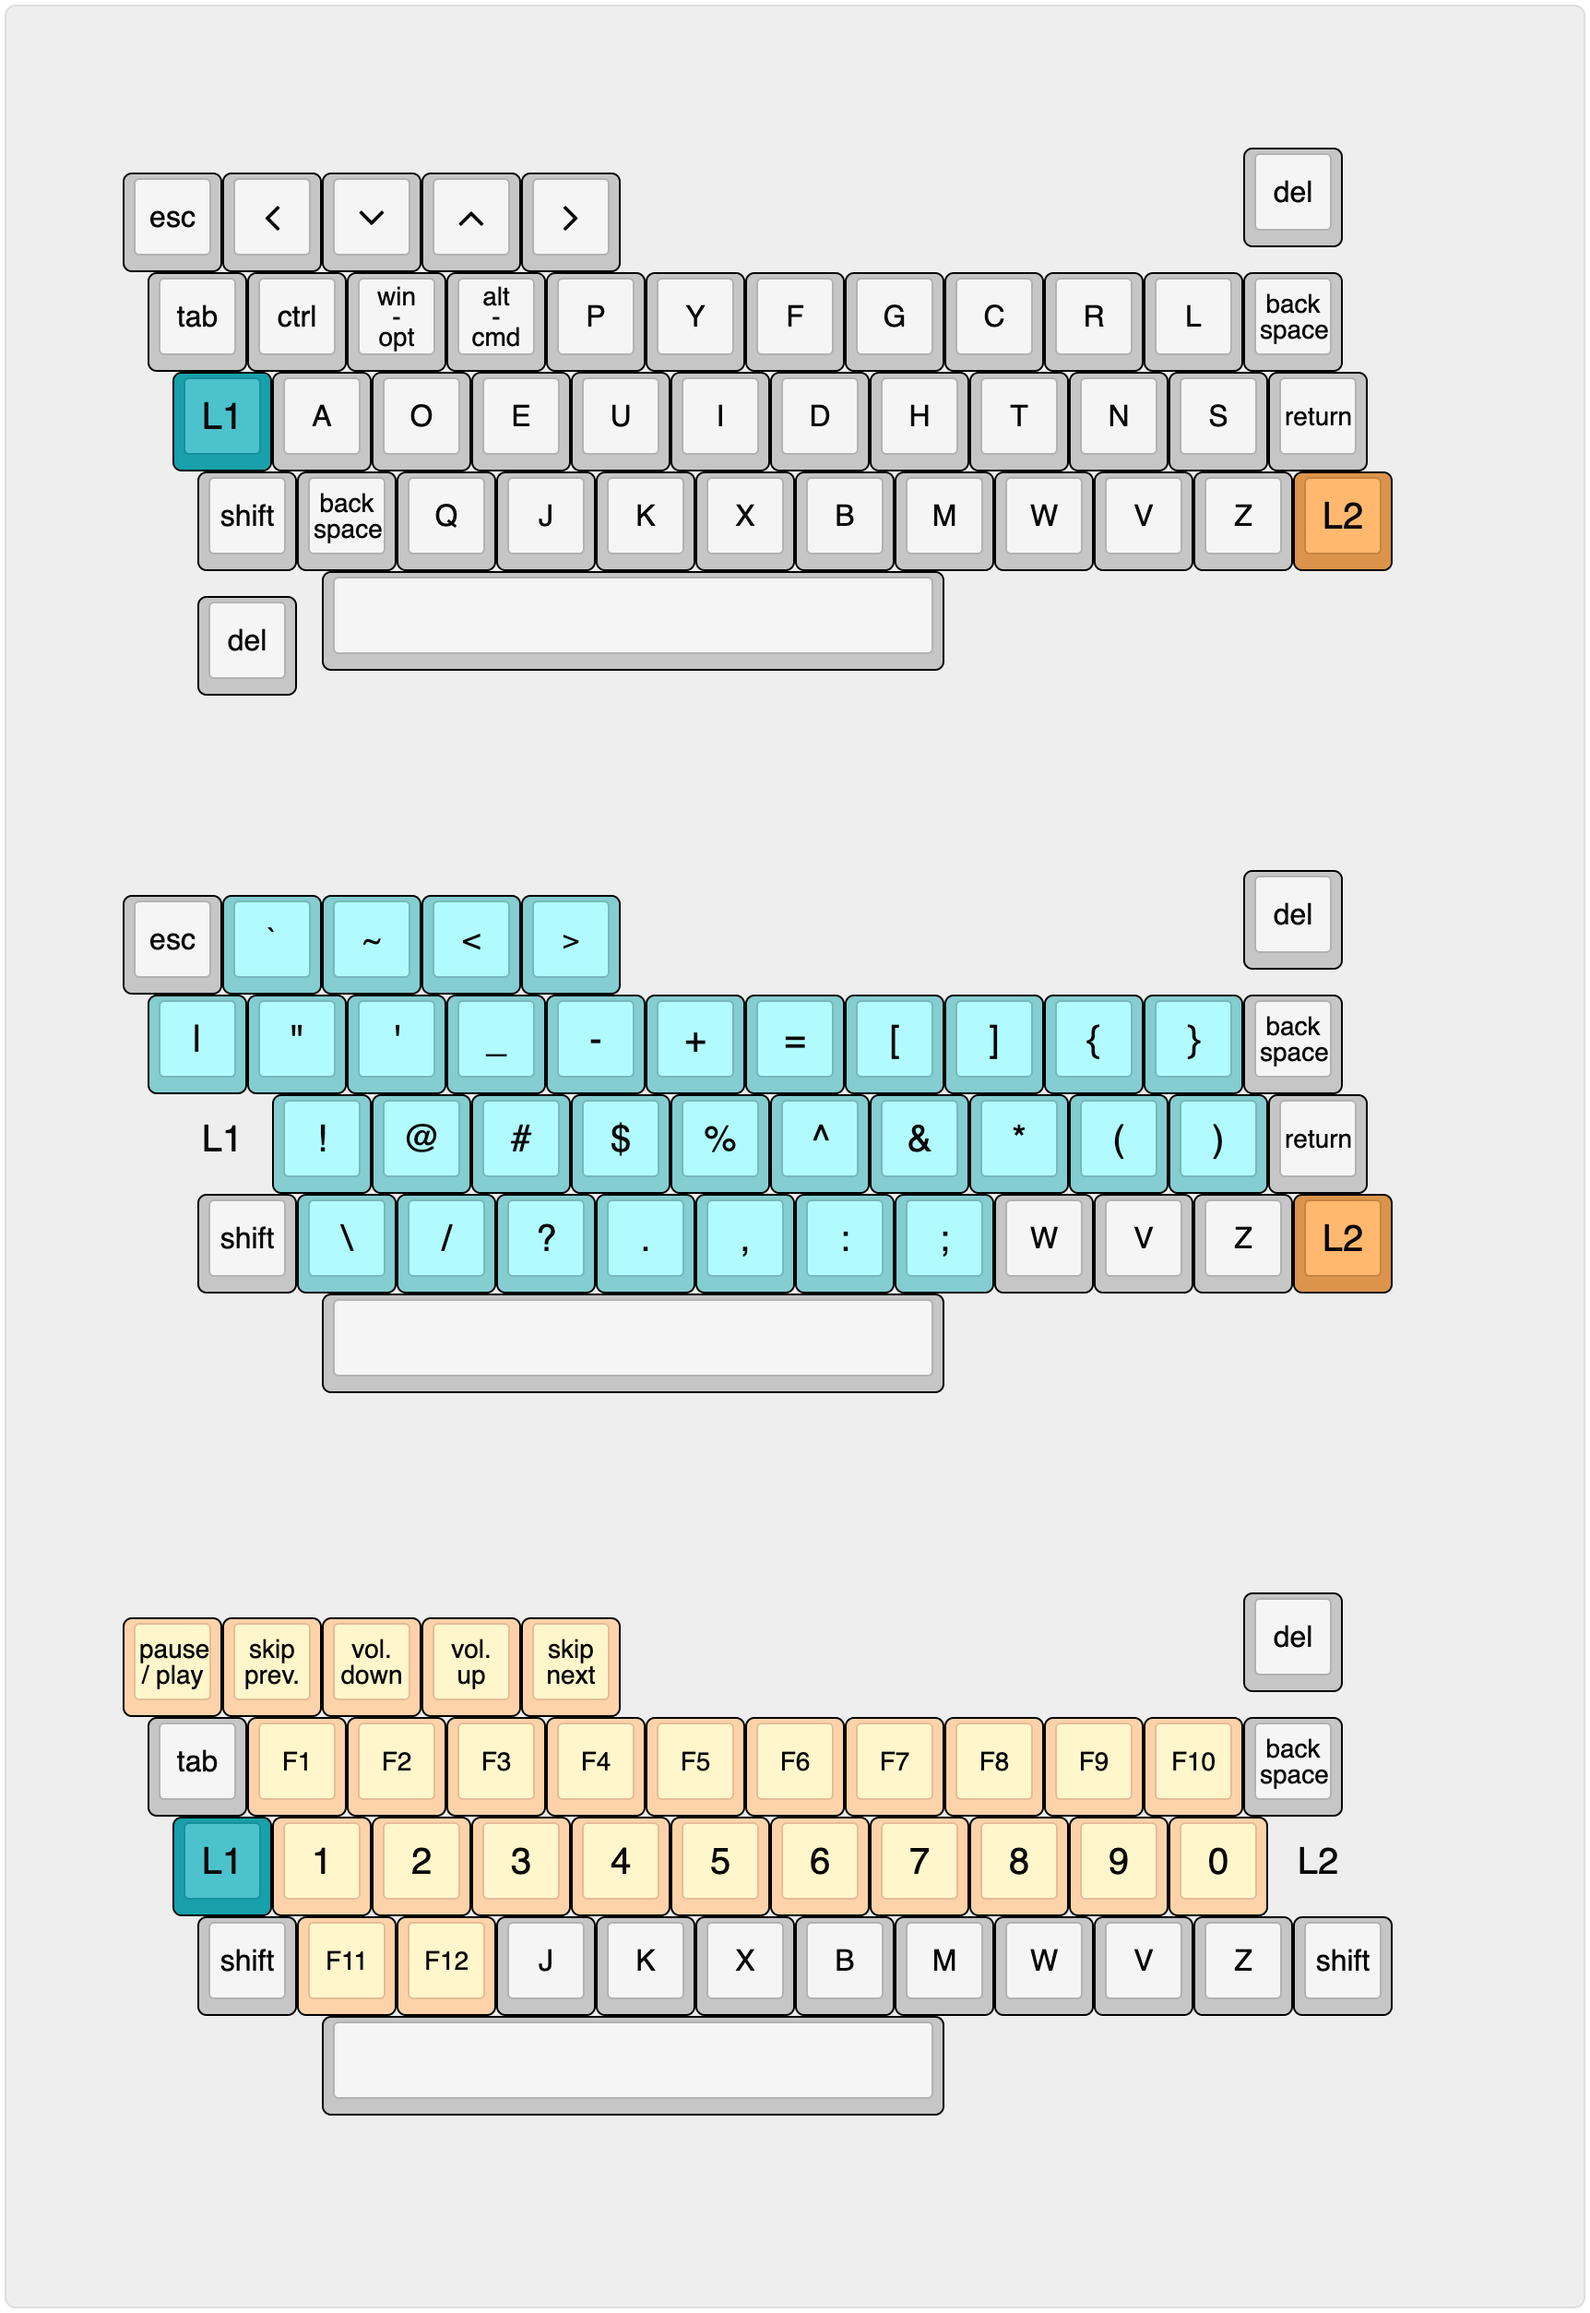
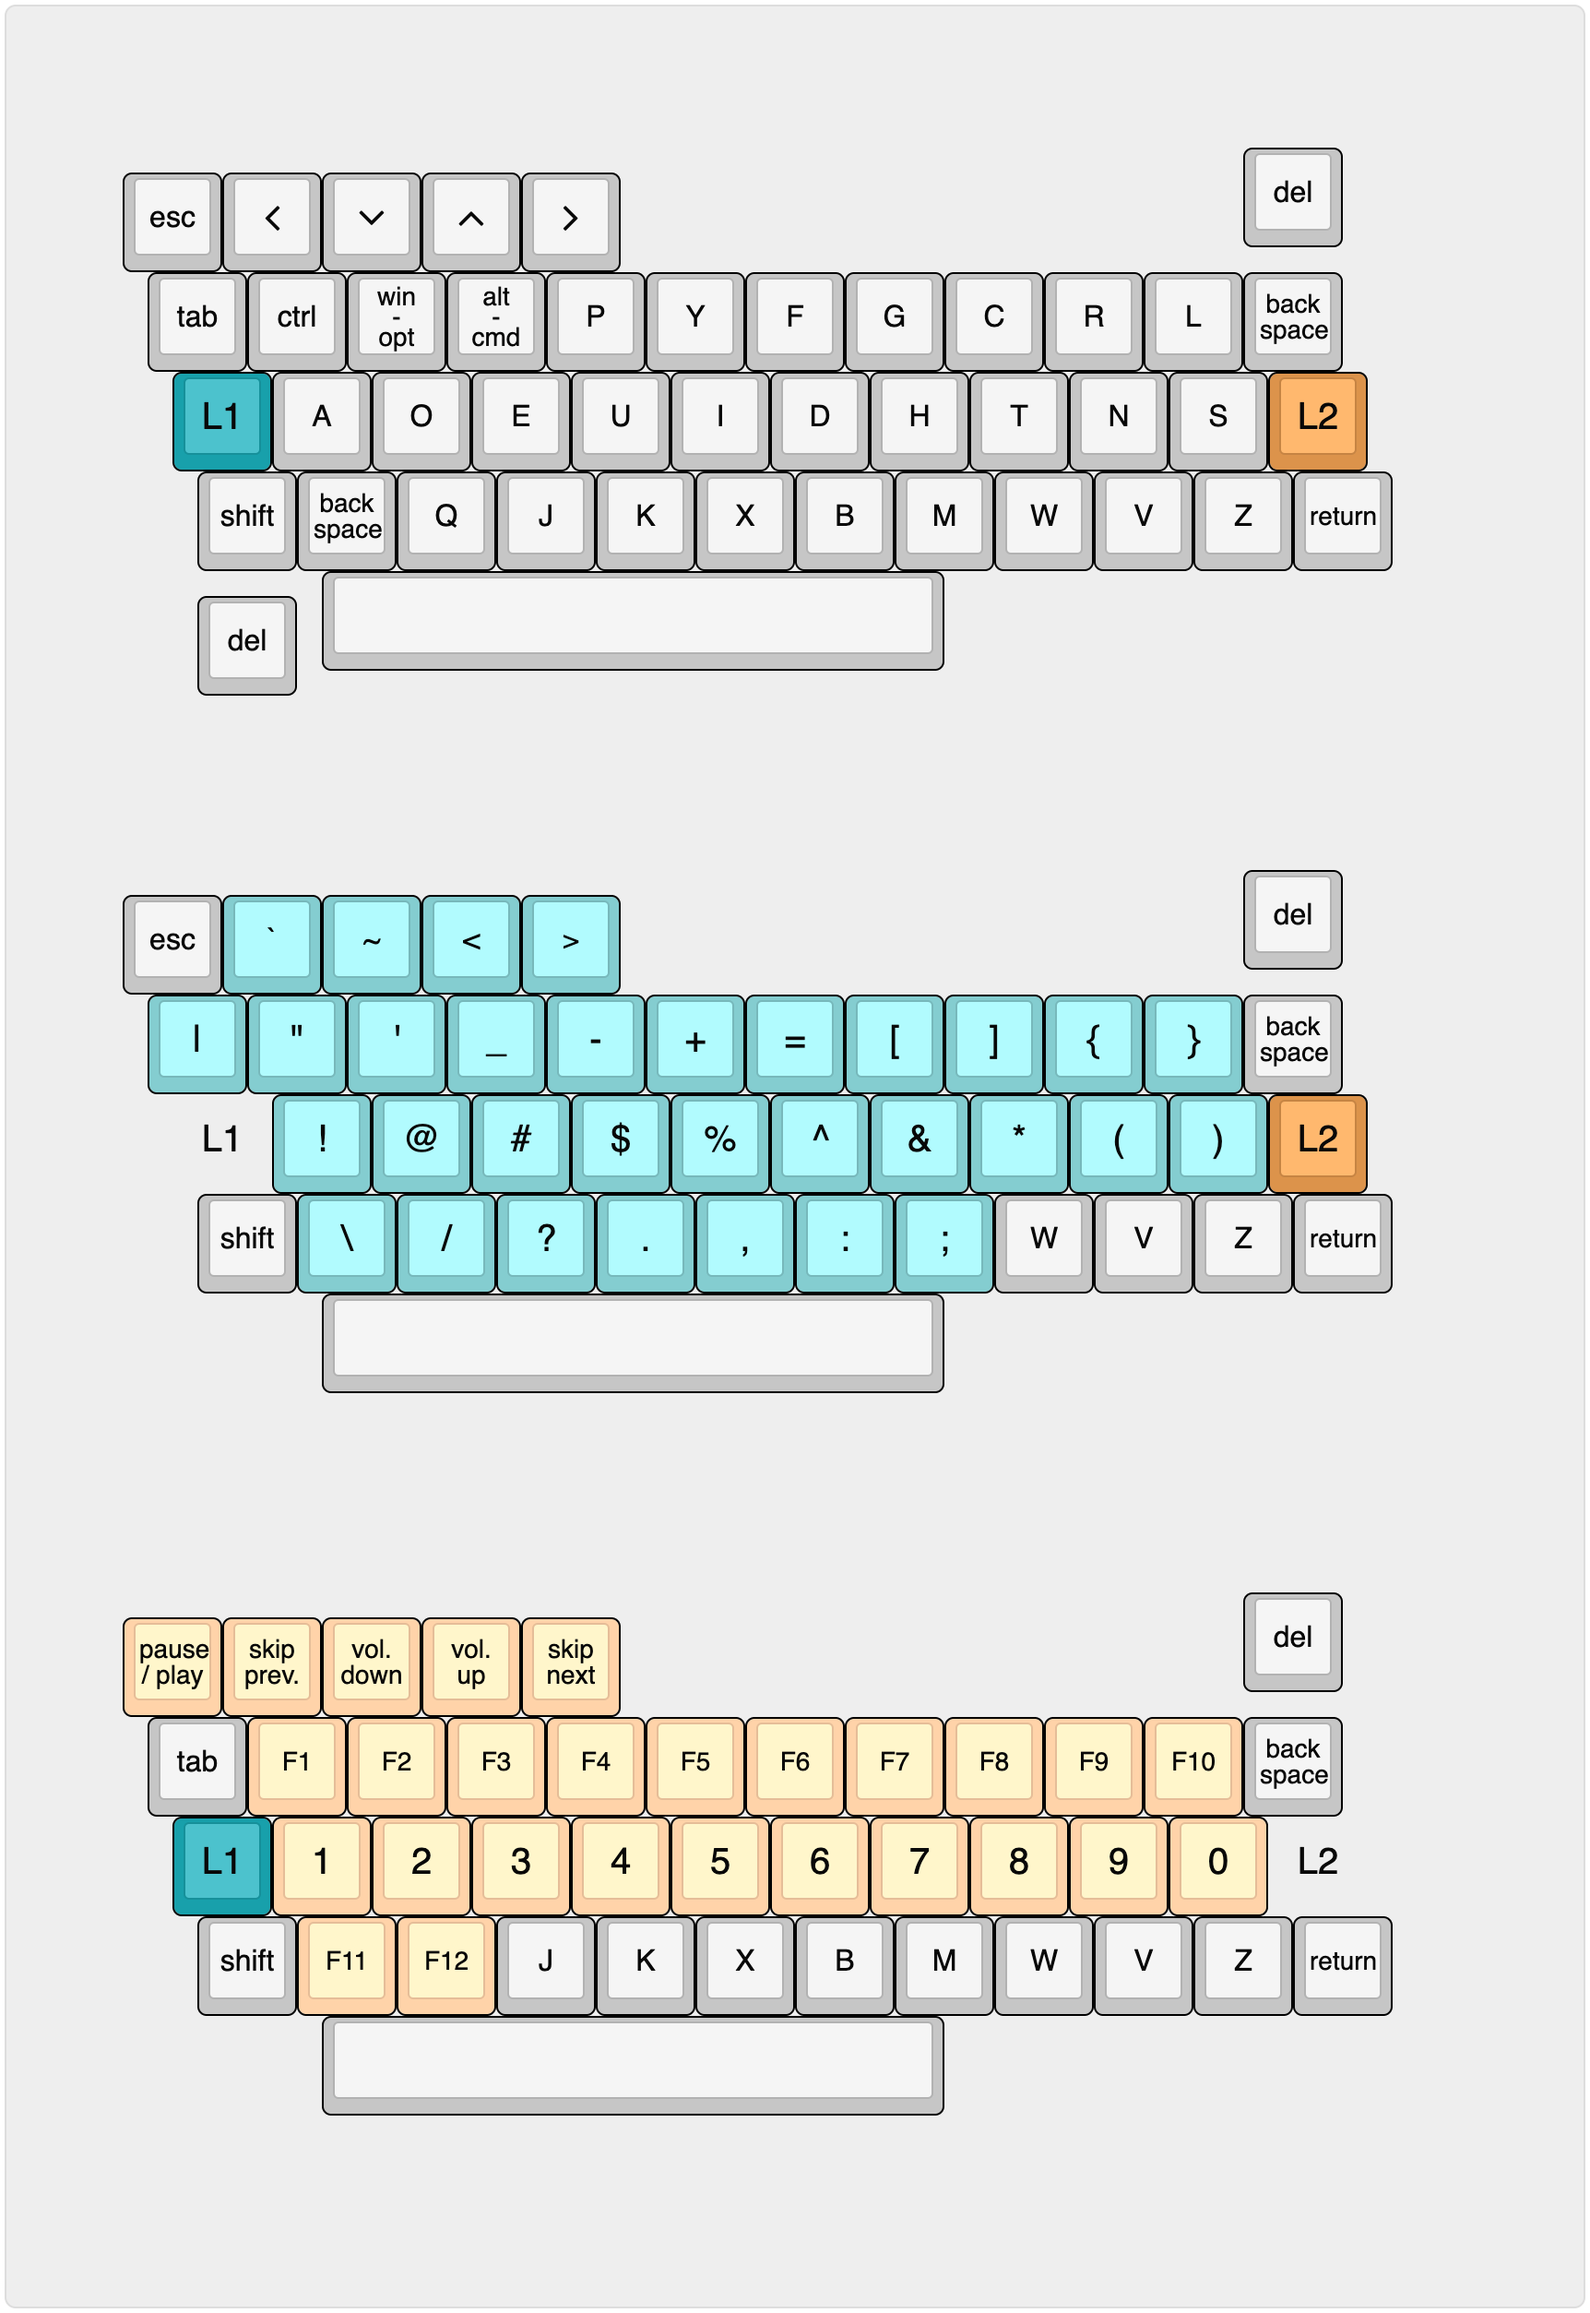
modified dvorak mapping

Changed region(s): [[0.7993, 0.4667, 0.8915, 0.56], [0.7993, 0.1556, 0.8915, 0.2489], [0.83, 0.84, 0.8608, 0.8712]]

diff --git a/firmware/keymaps/dvorak/keymap.c b/firmware/keymaps/dvorak/keymap.c
@@ -4,29 +4,29 @@ const uint16_t PROGMEM keymaps[][MATRIX_ROWS][MATRIX_COLS] = {
 	//base
     KEYMAP(
         KC_ESC,         KC_LEFT,  KC_DOWN,  KC_UP,    KC_RIGHT,  KC_Y,   KC_F,  KC_G,  KC_C,  KC_R,  KC_L,  KC_BSPC,
-        KC_TAB,         KC_LCTL,  KC_LALT,  KC_LGUI,  KC_P,      KC_I,   KC_D,  KC_H,  KC_T,  KC_N,  KC_S,  KC_ENT,
-        MO(2),          KC_A,     KC_O,     KC_E,     KC_U,      KC_X,   KC_B,  KC_M,  KC_W,  KC_V,  KC_Z,  MO(3),
+        KC_TAB,         KC_LCTL,  KC_LALT,  KC_LGUI,  KC_P,      KC_I,   KC_D,  KC_H,  KC_T,  KC_N,  KC_S,  MO(3),
+        MO(2),          KC_A,     KC_O,     KC_E,     KC_U,      KC_X,   KC_B,  KC_M,  KC_W,  KC_V,  KC_Z,  KC_ENT,
         LT(1,KC_LSFT),  KC_BSPC,  KC_Q,     KC_J,     KC_K,      KC_SPC
     ),
      //shift
     KEYMAP(
         S(KC_ESC),  S(KC_LEFT),  S(KC_DOWN),  S(KC_UP),    S(KC_RIGHT),  S(KC_Y),  S(KC_F),  S(KC_G),  S(KC_C),  S(KC_R),  S(KC_L),  KC_DEL,
-        S(KC_TAB),  S(KC_LCTL),  S(KC_LALT),  S(KC_LGUI),  S(KC_P),      S(KC_I),  S(KC_D),  S(KC_H),  S(KC_T),  S(KC_N),  S(KC_S),  S(KC_ENT),
-        _______,    S(KC_A),     S(KC_O),     S(KC_E),     S(KC_U),      S(KC_X),  S(KC_B),  S(KC_M),  S(KC_W),  S(KC_V),  S(KC_Z),  _______,
+        S(KC_TAB),  S(KC_LCTL),  S(KC_LALT),  S(KC_LGUI),  S(KC_P),      S(KC_I),  S(KC_D),  S(KC_H),  S(KC_T),  S(KC_N),  S(KC_S),  _______,
+        _______,    S(KC_A),     S(KC_O),     S(KC_E),     S(KC_U),      S(KC_X),  S(KC_B),  S(KC_M),  S(KC_W),  S(KC_V),  S(KC_Z),  S(KC_ENT),
         _______,    KC_DEL,      S(KC_Q),     S(KC_J),     S(KC_K),      S(KC_SPC)
     ),
     //layer 1 (momentary)
     KEYMAP(
         KC_ESC,      KC_GRV,      S(KC_GRV),  S(KC_COMMA),  S(KC_DOT),  S(KC_EQL),  KC_EQL,      KC_LBRC,  KC_RBRC,  S(KC_LBRC),  S(KC_RBRC),  KC_BSPC,
-        S(KC_BSLS),  S(KC_QUOT),  KC_QUOT,    S(KC_MINS),   KC_MINS,    S(KC_5),    S(KC_6),     S(KC_7),  S(KC_8),  S(KC_9),     S(KC_0),     KC_ENT,
-        _______,     S(KC_1),     S(KC_2),    S(KC_3),      S(KC_4),    KC_COMMA,   S(KC_SCLN),  KC_SCLN,  KC_W,     KC_V,        KC_Z,        _______,
+        S(KC_BSLS),  S(KC_QUOT),  KC_QUOT,    S(KC_MINS),   KC_MINS,    S(KC_5),    S(KC_6),     S(KC_7),  S(KC_8),  S(KC_9),     S(KC_0),     _______,
+        _______,     S(KC_1),     S(KC_2),    S(KC_3),      S(KC_4),    KC_COMMA,   S(KC_SCLN),  KC_SCLN,  KC_W,     KC_V,        KC_Z,        KC_ENT,
         _______,     KC_BSLS,     KC_SLSH,    S(KC_SLSH),   KC_DOT,     KC_SPC
     ),
     //layer 2 (momentary)
     KEYMAP(
         KC_MPLY,  KC_MRWD,  KC_VOLD,  KC_VOLU,  KC_MFFD,  KC_F5,  KC_F6,  KC_F7,  KC_F8,  KC_F9,  KC_F10,  KC_BSPC,
-        KC_TAB,   KC_F1,    KC_F2,    KC_F3,    KC_F4,    KC_5,   KC_6,   KC_7,   KC_8,   KC_9,   KC_0,    KC_ENT,
-        _______,  KC_1,     KC_2,     KC_3,     KC_4,     KC_X,   KC_B,   KC_M,   KC_W,   KC_V,   KC_Z,    _______,
+        KC_TAB,   KC_F1,    KC_F2,    KC_F3,    KC_F4,    KC_5,   KC_6,   KC_7,   KC_8,   KC_9,   KC_0,    _______,
+        _______,  KC_1,     KC_2,     KC_3,     KC_4,     KC_X,   KC_B,   KC_M,   KC_W,   KC_V,   KC_Z,    KC_ENT,
         _______,  KC_F11,   KC_F12,   KC_J,     KC_K,     KC_SPC
     )
 };
